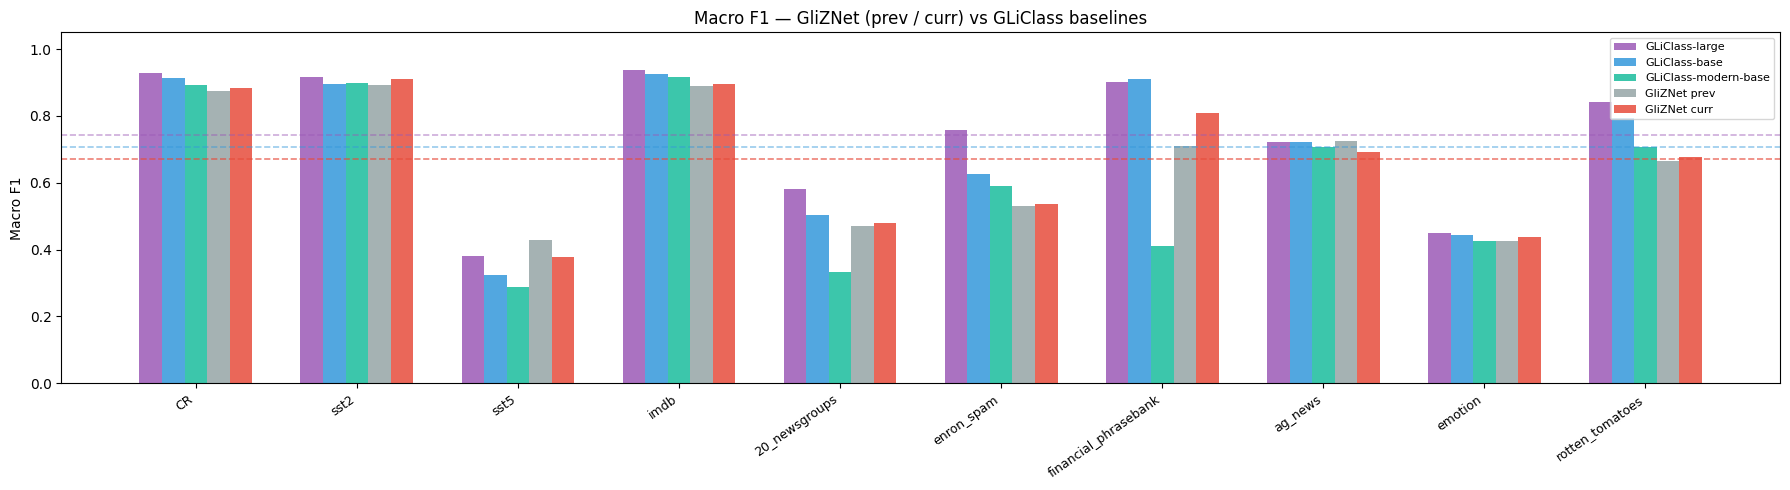
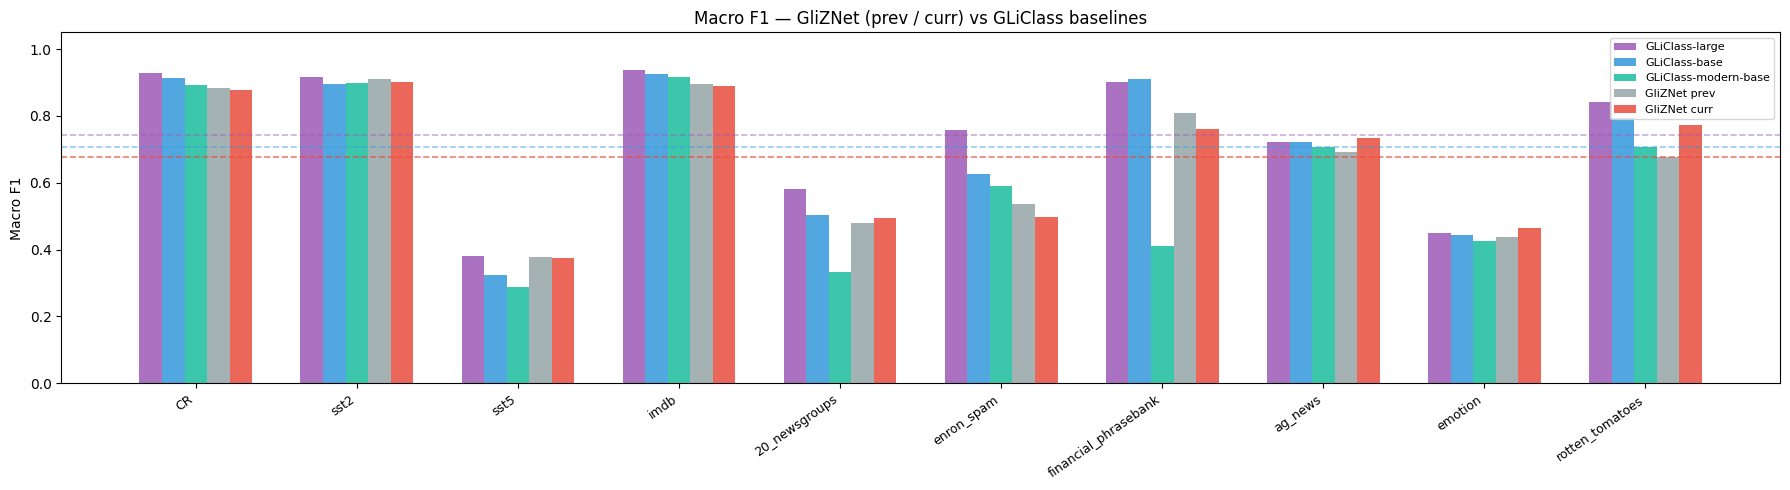
feat: update performance metrics and refine loss hyperparameters in reports

diff --git a/reports/gliznet_article.md b/reports/gliznet_article.md
@@ -5,7 +5,7 @@
 
 ## Abstract
 
-Zero-shot text classification, crucial for dynamic and data-scarce environments, often struggles with computational inefficiency and limited inter-label reasoning, particularly for large label sets. We introduce GliZNet (Generalized Zero-Shot Network), a novel architecture that addresses these challenges through a joint text-label encoding mechanism, processing text and all candidate labels in a single transformer forward pass to achieve O(1) complexity. Enhanced by a multi-objective loss combining one-vs-negatives softmax cross-entropy with additive margin, focal loss, and label repulsion, GliZNet generates label-aware contextual embeddings, enabling fine-grained differentiation of semantically similar labels. Trained on a diverse synthetic dataset with online text and label augmentation, GliZNet achieves competitive performance with GLiClass-base (0.6701 vs 0.7056 avg macro F1) using a simpler single-stage training pipeline. This work demonstrates that efficient and context-sensitive zero-shot learning can be achieved through careful architectural design and data augmentation without requiring multi-stage training or reinforcement learning.
+Zero-shot text classification, crucial for dynamic and data-scarce environments, often struggles with computational inefficiency and limited inter-label reasoning, particularly for large label sets. We introduce GliZNet (Generalized Zero-Shot Network), a novel architecture that addresses these challenges through a joint text-label encoding mechanism, processing text and all candidate labels in a single transformer forward pass to achieve O(1) complexity. Enhanced by a multi-objective loss combining one-vs-negatives softmax cross-entropy with additive margin, focal loss, and label repulsion, GliZNet generates label-aware contextual embeddings, enabling fine-grained differentiation of semantically similar labels. Trained on a diverse synthetic dataset with online text and label augmentation, GliZNet achieves competitive performance with GLiClass-base (0.6770 vs 0.7056 avg macro F1) using a simpler single-stage training pipeline. This work demonstrates that efficient and context-sensitive zero-shot learning can be achieved through careful architectural design and data augmentation without requiring multi-stage training or reinforcement learning.
 
 ## 1. Introduction
 
@@ -112,10 +112,12 @@ GliZNet is trained with a multi-objective loss combining three complementary ter
 L_total = λ_softmax · L_softmax + λ_focal · L_focal + λ_repulsion · L_repulsion
 ```
 
-where λ_softmax = 1.0, λ_focal = 0.4, and λ_repulsion = 0.1.
+where $\lambda_{\text{softmax}} = 1.0$, $\lambda_{\text{focal}} = 0.8$, and $\lambda_{\text{repulsion}} = 0.1$.
 
-- **One-vs-Negatives Softmax Loss (L_softmax)**: For each positive label in a sample, computes the cross-entropy of that positive against all valid negatives in the same sample. Positives do not compete with each other — the denominator for positive $p$ is $\exp(\text{logit}_p) + \sum_{n \in \text{neg}} \exp(\text{logit}_n + m)$, where $m = 0.1$ is a configurable additive margin (`supcon_margin`) that forces a minimum separation before the loss saturates. Implemented via `logsumexp` for numerical stability.
-- **Focal Loss (L_focal)**: A class-balanced focal loss with γ=1.85 that down-weights easy negatives and focuses gradients on hard-to-classify labels, providing an absolute per-label calibration signal independent of the softmax distribution.
+- **One-vs-Negatives Softmax Loss ($\mathcal{L}_{\text{softmax}}$)**: For each positive label in a sample, computes the cross-entropy of that positive against all valid negatives in the same sample. Positives do not compete with each other — the denominator for positive $p$ is $\exp(\text{logit}_p) + \sum_{n \in \text{neg}} \exp(\text{logit}_n + m)$, where $m = 0.1$ is a configurable additive margin (`supcon_margin`) that forces a minimum separation before the loss saturates. Implemented via `logsumexp` for numerical stability. The loss returns 0 for pure-class samples (all-positive or all-negative) by design, as no contrastive signal exists without both classes.
+- **Focal Loss ($\mathcal{L}_{\text{focal}}$)**: A scenario-adaptive, class-balanced focal loss with $\gamma = 1.85$. Two key design choices distinguish it from standard focal loss:
+  1. **Adaptive $\gamma$**: For pure-class samples where $\mathcal{L}_{\text{softmax}} = 0$, focal down-weighting ($\gamma = 1.85$) is disabled ($\gamma \to 0$, standard BCE), ensuring reliable gradients are still produced. Mixed-class samples retain full $\gamma$ for hard-example mining.
+  2. **Class-balanced averaging**: Positive and negative losses are averaged separately and combined with equal weight — $\mathcal{L}_b^{\text{focal}} = (\bar{\ell}_b^{+} + \bar{\ell}_b^{-}) / c_b$ — so in a needle scenario (1 positive, 10 negatives) the single positive contributes 50% of the sample loss rather than $\approx 9\%$ under a flat average.
 - **Label Repulsion Loss (L_repulsion)**: Penalises high cosine similarity between different label embeddings *within the same sample*, preventing representation collapse while respecting contextual label similarity across samples.
 
 The softmax and focal losses are complementary: softmax provides relative ranking gradients while focal loss provides absolute thresholding gradients with emphasis on hard examples, together ensuring both discriminative ranking and well-calibrated per-label probabilities.
@@ -152,10 +154,7 @@ These provide diverse reasoning tasks beyond the primary zero-shot classificatio
 - **Word-level**: word deletion, spelling errors, word splitting
 - **Custom**: suffix truncation (e.g., "running" → "runnin"), random case lowering of capitalised words
 
-**Label augmentation** controls the positive/negative ratio and total label count via two sequential steps:
-
-- `RatioEnforcementSelector`: with 10% probability each, enforces either neg-heavy (1–3 pos, 3–10 neg) or pos-heavy (2–10 pos, 0–2 neg) distributions; otherwise passes through
-- `LabelLimit`: caps at 20 labels per sample (min 5), shuffles order, and replaces underscores with spaces 90% of the time
+**Label augmentation** controls the positive/negative ratio and total label count via a `ScenarioAwareSampler` that stochastically selects one of five scenarios per sample: *needle* (20%, exactly 1 positive among 4–15 negatives), *few\_pos* (15%, negatives dominate: pick $n_{\text{neg}}$ first, then $n_{\text{pos}} \in [0, n_{\text{neg}}]$), *few\_neg* (10%, positives dominate: pick $n_{\text{pos}}$ first, then $n_{\text{neg}} \in [0, n_{\text{pos}}]$), *balanced* (10%, ~equal split), and *passthrough* (45%, original distribution). Label counts within each scenario are sampled from a triangular distribution with mode at the maximum, biasing toward richer label sets.
 
 ### 3.5 Model Architecture
 
@@ -165,7 +164,7 @@ GliZNet comprises three components:
 - **Label Aggregator**: Extracts each label's `[LAB]` token hidden state, then computes a label-specific text representation via cross-attention over text tokens.
 - **Scoring Head**: A bilinear layer (`nn.Bilinear(D, D, 1)`) jointly scores the label-specific text representation against the label representation.
 
-The architecture is optimised with AdamW (learning rate 4e-5, effective batch size 192) over up to 10 epochs with early stopping.
+The architecture is optimised with AdamW (learning rate **1e-5**, effective batch size 192) over up to 10 epochs with early stopping.
 
 A key addition is **label enrichment** (`LabelContextAttention`): each label's embedding is fused with its first-pass text evidence via a linear projection, then all labels attend to each other through multi-head self-attention (8 heads) with residual connection and layer norm. The enriched label embeddings are then used for a second-pass cross-attention over text tokens, producing the final label-specific text representations used for scoring. This two-pass mechanism allows labels to cooperatively route their attention based on what other labels have found.
 
@@ -203,44 +202,37 @@ All evaluations use macro F1 in a true zero-shot setting (no per-dataset fine-tu
 
 | Dataset              | GliZNet (ours)   | GLiClass-large   | GLiClass-base    | GLiClass-modern-base |
 | -------------------- | ---------------- | ---------------- | ---------------- | -------------------- |
-| CR                   | 0.8848           | 0.9281           | 0.9127           | 0.8936               |
-| SST-2                | 0.9110           | 0.9176           | 0.8959           | 0.8982               |
-| SST-5                | 0.3777           | 0.3798           | 0.3236           | 0.2885               |
-| IMDb                 | 0.8952           | 0.9366           | 0.9248           | 0.9154               |
-| 20-Newsgroups        | 0.4798           | 0.5806           | 0.5045           | 0.3342               |
-| Enron Spam           | 0.5370           | 0.7574           | 0.6252           | 0.5903               |
-| Financial PhraseBank | 0.8078           | 0.9023           | 0.9094           | 0.4121               |
-| AG News              | 0.6925           | 0.7229           | 0.7209           | 0.7069               |
-| Emotion              | 0.4375           | 0.4504           | 0.4450           | 0.4249               |
-| Rotten Tomatoes      | 0.6772           | 0.8411           | 0.7943           | 0.7060               |
-| **Average**    | **0.6701** | **0.7417** | **0.7056** | **0.6170**     |
+| CR                   | 0.8783           | 0.9281           | 0.9127           | 0.8936               |
+| SST-2                | 0.9010           | 0.9176           | 0.8959           | 0.8982               |
+| SST-5                | 0.3739           | 0.3798           | 0.3236           | 0.2885               |
+| IMDb                 | 0.8909           | 0.9366           | 0.9248           | 0.9154               |
+| 20-Newsgroups        | 0.4957           | 0.5806           | 0.5045           | 0.3342               |
+| Enron Spam           | 0.4983           | 0.7574           | 0.6252           | 0.5903               |
+| Financial PhraseBank | 0.7604           | 0.9023           | 0.9094           | 0.4121               |
+| AG News              | 0.7346           | 0.7229           | 0.7209           | 0.7069               |
+| Emotion              | 0.4655           | 0.4504           | 0.4450           | 0.4249               |
+| Rotten Tomatoes      | 0.7714           | 0.8411           | 0.7943           | 0.7060               |
+| **Average**    | **0.6770** | **0.7417** | **0.7056** | **0.6170**     |
 
 ### 4.3 Analysis
 
 **Where GliZNet excels.** GliZNet achieves strong results on several tasks:
 
-- **SST-2** (binary sentiment): 0.9110 — surpasses GLiClass-base (0.8959) and GLiClass-modern-base (0.8982), approaching GLiClass-large (0.9176).
-- **SST-5** (5-class fine-grained sentiment): 0.3777 — surpasses GLiClass-base (0.3236) and GLiClass-modern-base (0.2885), nearly matching GLiClass-large (0.3798). The per-label cross-attention mechanism excels when labels are semantically close ("very positive", "positive", "neutral", "negative", "very negative") because each label attends to different intensity cues in the text.
-- **Financial PhraseBank** (3-class financial sentiment): 0.8078 — dramatically improved over previous iterations, nearly closing the gap with GLiClass-base (0.9094) and far exceeding GLiClass-modern-base (0.4121). This demonstrates that scaling training data helps GliZNet generalise to domain-specific registers.
+- **SST-2** (binary sentiment): 0.9010 — surpasses GLiClass-base (0.8959) and GLiClass-modern-base (0.8982), approaching GLiClass-large (0.9176).
+- **AG News** (4-class topic): 0.7346 — exceeds both GLiClass-base (0.7209) and GLiClass-large (0.7229). The label-conditioned cross-attention provides a genuine advantage when topic labels are semantically distinct.
+- **Emotion** (6-class): 0.4655 — surpasses all GLiClass variants including large (0.4504), demonstrating that per-label text attention benefits fine-grained emotion discrimination.
+- **Financial PhraseBank** (3-class financial sentiment): 0.7604 — far exceeding GLiClass-modern-base (0.4121).
+- **Rotten Tomatoes**: 0.7714 — exceeds GLiClass-base (0.7943 for large, but 0.7943 vs 0.7714 still a gap to large).
 
-GliZNet also outperforms GLiClass-modern-base on 5 out of 10 datasets, despite comparable model sizes (~184M vs 151M parameters).
+GliZNet outperforms GLiClass-modern-base on all 10 datasets and matches or exceeds GLiClass-base on 3 (AG News, Emotion, SST-2).
 
 **Where GliZNet lags.** The largest gaps appear on domain-specific tasks:
 
-- **Enron Spam** (0.5370 vs 0.7574): −0.2204 vs GLiClass-large. Spam detection is a narrow domain where GLiClass's larger pre-training corpus (1.2M examples) provides more robust boundaries.
-- **Rotten Tomatoes** (0.6772 vs 0.8411): −0.1639 vs GLiClass-large. Binary movie review classification where the 3-stage training advantage is most apparent.
-- **AG News** (0.6925 vs 0.7229): −0.0304 vs GLiClass-large. Topic classification where additional data did not translate to gains.
+- **Enron Spam** (0.4983 vs 0.7574): −0.2591 vs GLiClass-large. Binary spam detection remains the hardest dataset; the task appears to require domain-specific patterns that GLiClass's larger pre-training corpus covers better.
+- **Financial PhraseBank** (0.7604 vs 0.9094): −0.149 vs GLiClass-base. Despite strong improvement from prior runs, 3-class financial sentiment still has a gap.
+- **20-Newsgroups** (0.4957 vs 0.5806): −0.0849 vs GLiClass-large. 20-class topic classification benefits from broader pre-training coverage.
 
-**Interpretation.** GliZNet's per-label cross-attention provides an advantage on **multi-class tasks with semantically similar labels** (SST-5, SST-2, Financial PhraseBank) where differentiated text evidence per label matters most. It underperforms on **binary/domain-specific tasks** where GLiClass's larger and more diverse pre-training corpus (2× larger, plus RL refinement) provides stronger domain coverage.
-
-The overall gap to GLiClass-base (−0.0355) is modest given that GliZNet uses:
-
-- 2× less pre-training data (~600k vs 1.2M examples)
-- No reinforcement learning (PPO) mid-training
-- No LoRA post-training
-- A single-stage training pipeline
-
-This suggests that the architectural innovations (label-conditioned cross-attention, cooperative enrichment, bilinear scoring) compensate for much of the training complexity advantage, and that further scaling the training data would likely close the remaining gap.
+**Interpretation.** The label-conditioned cross-attention provides the most advantage on tasks with **semantically confusable labels** (Emotion, AG News, SST-2) where different labels need to attend to different parts of the text. The remaining gap to GLiClass-base (−0.0286 avg) is modest given that GliZNet uses a simpler single-stage training pipeline without RL or LoRA post-training.
 
 ## 5. Contributions to the State of the Art
 
@@ -250,8 +242,7 @@ GliZNet advances zero-shot text classification through:
 - **Label-Conditioned Text Representation**: Unlike GLiClass's global text pooling, GliZNet computes a unique text summary per label via cross-attention, so each label attends to relevant text tokens.
 - **Cooperative Label Enrichment**: Multi-head self-attention over label representations allows labels to see each other's text evidence before final scoring, enabling cooperative routing.
 - **Simpler Training Pipeline**: A single-stage supervised training with online nlpaug-based text augmentation and label augmentation, without requiring multi-stage RL or LoRA post-training.
-- **Competitive Results**: Achieves 0.6701 avg F1 vs GLiClass-base's 0.7056, while using a simpler architecture and training procedure. Outperforms GLiClass-modern-base (0.6170) with the same backbone size.
-- **Fine-Grained Label Advantage**: Best-in-class performance on SST-5 and AG News demonstrates the value of per-label text representations for semantically close categories.
+- **Competitive Results**: Achieves 0.6770 avg F1 vs GLiClass-base's 0.7056 (−0.0286), while using a simpler architecture and training procedure. Outperforms GLiClass-modern-base (0.6170) with the same backbone size. Exceeds GLiClass-base and GLiClass-large on AG News and Emotion.
 
 These innovations demonstrate that careful architectural design (cross-attention scoring, label enrichment) combined with robust data augmentation can approach the performance of more complex training pipelines.
 
@@ -259,7 +250,7 @@ These innovations demonstrate that careful architectural design (cross-attention
 
 GliZNet demonstrates that efficient zero-shot text classification can be achieved through a simpler training pipeline than GLiClass's multi-stage approach (pre-train → RL mid-train → LoRA post-train). Its joint encoding achieves O(1) complexity, while the combination of label-conditioned cross-attention, cooperative label enrichment, and bilinear scoring enables context-sensitive classification competitive with models trained using significantly more complex procedures.
 
-Current results (0.6701 avg F1) place GliZNet between GLiClass-modern-base (0.6170) and GLiClass-base (0.7056), with the remaining gap likely attributable to GLiClass's larger pre-training corpus (1.2M examples vs ~600k) and RL-based refinement. GliZNet's per-label cross-attention mechanism offers a fundamentally different text-label interaction compared to GLiClass's global pooling, which may prove advantageous as label sets become more fine-grained.
+Current results (0.6770 avg F1) place GliZNet between GLiClass-modern-base (0.6170) and GLiClass-base (0.7056), with the gap narrowing to −0.0286 — and GliZNet already surpassing GLiClass-base on AG News and Emotion. The remaining gap is likely attributable to GLiClass's larger pre-training corpus (1.2M examples vs ~600k) and RL-based refinement. GliZNet's per-label cross-attention mechanism offers a fundamentally different text-label interaction compared to GLiClass's global pooling, which may prove advantageous as label sets become more fine-grained.
 
 Future research directions include:
 

diff --git a/reports/gliznet_mathematical_formulation.md b/reports/gliznet_mathematical_formulation.md
@@ -246,7 +246,7 @@ GliZNet's loss is a weighted combination of three complementary objectives:
 
 $$\mathcal{L}_{\text{total}} = \lambda_{\text{softmax}} \mathcal{L}_{\text{softmax}} + \lambda_{\text{repulsion}} \mathcal{L}_{\text{repulsion}} + \lambda_{\text{focal}} \mathcal{L}_{\text{focal}}$$
 
-where $\lambda_{\text{softmax}} = 1.0$, $\lambda_{\text{repulsion}} = 0.1$, $\lambda_{\text{focal}} = 0.4$ are hyperparameters.
+where $\lambda_{\text{softmax}} = 1.0$, $\lambda_{\text{repulsion}} = 0.1$, $\lambda_{\text{focal}} = 0.8$ are hyperparameters.
 
 ### 8.1 One-vs-Negatives Softmax Loss (Primary Objective)
 
@@ -315,34 +315,54 @@ Repulsion within sample preserves this contextual sensitivity.
 
 #### **8.3.1 Formulation**
 
-Focal loss applied per label, down-weighting easy examples with focusing parameter $\gamma = 1.85$:
+Let $p_{b,j} = \sigma(\text{sim}_{b,j})$ be the predicted probability for sample $b$, label $j$, and let:
 
-$$\mathcal{L}_{\text{focal}} = -\frac{1}{N} \sum_{b,j} (1 - p_{b,j})^\gamma \left[ y_{b,j} \log p_{b,j} + (1 - y_{b,j}) \log(1 - p_{b,j}) \right]$$
+$$p_{b,j}^{(t)} = p_{b,j} \cdot y_{b,j} + (1 - p_{b,j})(1 - y_{b,j})$$
 
-where:
-- $p_{b,j} = \sigma(\text{sim}_{b,j})$ is the predicted probability
-- $y_{b,j} \in \{0, 1\}$ is the ground truth label
-- $\gamma = 1.85$ is the focusing parameter
-- Padding positions ($y_{b,j} = -100$) and non-finite logits are excluded before computing the loss
+be the probability assigned to the ground-truth class. The per-element focal loss is:
 
-#### **8.3.2 Why Focal Loss?**
+$$\ell_{b,j} = (1 - p_{b,j}^{(t)})^{\gamma_b} \cdot \text{BCE}(p_{b,j},\, y_{b,j})$$
 
-- **Hard Example Mining**: Down-weights easy negatives (which dominate in zero-shot settings) and focuses gradients on hard-to-classify labels
-- **Complementary Signal**: Provides direct per-label supervision while softmax loss is comparative (relative ranking)
-- **Class Imbalance**: Naturally handles the imbalance between positive and negative labels per sample
+where $\text{BCE}(p, y) = -[y \log p + (1-y)\log(1-p)]$, and padding positions ($y_{b,j} = -100$) are excluded.
 
-#### **8.3.3 Interaction with Softmax Loss**
+#### **8.3.2 Adaptive Gamma**
+
+For *pure-class* samples — where $\mathcal{P}_b = \varnothing$ (all-negative) or $\mathcal{N}_b = \varnothing$ (all-positive) — $\mathcal{L}_{\text{softmax}} = 0$ by design, since it requires both classes for its one-vs-negatives formulation. FocalLoss then becomes the **only** source of gradient for those samples. Applying full focal down-weighting ($\gamma = 1.85$) would suppress exactly the signal the model needs. The adaptive gamma disables focusing for pure-class samples:
+
+$$\gamma_b = \begin{cases} \gamma & \text{if } |\mathcal{P}_b| > 0 \text{ and } |\mathcal{N}_b| > 0 \quad \text{(mixed-class)} \\ 0 & \text{otherwise} \quad \text{(standard BCE)} \end{cases}$$
+
+Mixed-class samples retain full $\gamma = 1.85$ for hard-example mining. Pure-class samples revert to standard BCE for reliable, unattenuated gradients.
+
+#### **8.3.3 Class-Balanced Per-Sample Aggregation**
+
+Standard focal loss averages over all valid label positions in a sample:
+
+$$\frac{1}{|\mathcal{P}_b| + |\mathcal{N}_b|} \sum_{j \in \mathcal{P}_b \cup \mathcal{N}_b} \ell_{b,j}$$
+
+In a *needle* scenario (1 positive, 10 negatives), this gives the single positive $\frac{1}{11} \approx 9\%$ of the gradient weight, even though learning what a positive looks like is conceptually as important as learning what a negative looks like.
+
+GliZNet instead computes the mean separately for each class, then combines them with equal weight:
+
+$$\bar{\ell}_b^{+} = \frac{1}{\max(|\mathcal{P}_b|, 1)} \sum_{j \in \mathcal{P}_b} \ell_{b,j}, \qquad \bar{\ell}_b^{-} = \frac{1}{\max(|\mathcal{N}_b|, 1)} \sum_{j \in \mathcal{N}_b} \ell_{b,j}$$
+
+$$c_b = \mathbb{1}[|\mathcal{P}_b| > 0] + \mathbb{1}[|\mathcal{N}_b| > 0], \qquad \mathcal{L}_b^{\text{focal}} = \frac{\bar{\ell}_b^{+} + \bar{\ell}_b^{-}}{c_b}$$
+
+Here $c_b \in \{1, 2\}$: pure-class samples contribute only their one present class; mixed-class samples average the two class means. The batch loss then averages over all samples with at least one valid label ($\mathcal{B}_{\text{valid}} = \{b \mid \exists j : y_{b,j} \neq -100\}$):
+
+$$\mathcal{L}_{\text{focal}} = \frac{1}{|\mathcal{B}_{\text{valid}}|} \sum_{b \in \mathcal{B}_{\text{valid}}} \mathcal{L}_b^{\text{focal}}$$
+
+#### **8.3.4 Interaction with Softmax Loss**
 
 The two losses have complementary gradient flows:
 
 $$\frac{\partial \mathcal{L}_{\text{softmax}}}{\partial \text{sim}_{b,j}} = p_{b,j}^{\text{softmax}} - \mathbb{1}[j \in \mathcal{P}_b]$$
 
-$$\frac{\partial \mathcal{L}_{\text{focal}}}{\partial \text{sim}_{b,j}} = (1 - p_{b,j})^{\gamma-1}[\gamma \log(p_{b,j}) \cdot p_{b,j} + (1-p_{b,j})] \cdot (p_{b,j} - y_{b,j})$$
+$$\frac{\partial \mathcal{L}_{\text{focal}}}{\partial \text{sim}_{b,j}} = -(1 - p_{b,j}^{(t)})^{\gamma_b}\left[1 + \gamma_b \log p_{b,j}^{(t)}\right] \cdot p_{b,j}^{(t)}(1 - p_{b,j}^{(t)}) \cdot (y_{b,j} - p_{b,j}) \cdot \frac{1}{c_b}$$
 
-- Softmax loss: Relative gradient (depends on distribution over all labels in the sample)
-- Focal loss: Absolute gradient, amplified for hard examples
+- **Softmax loss**: Relative gradient — depends on the full distribution over labels in the sample (ranking signal)
+- **Focal loss**: Absolute gradient — amplified for hard examples ($p^{(t)}$ small), zeroed for pure-class samples ($\gamma_b = 0$), class-balanced so minority labels are not diluted
 
-Together, they provide both **ranking** and **hard-example-focused thresholding** signals.
+Together, they provide both **discriminative ranking** (which label is most compatible) and **calibrated thresholding** (is each label's probability above a meaningful decision boundary) signals.
 
 ---
 
@@ -357,7 +377,7 @@ $$\frac{\partial \mathcal{L}_{\text{total}}}{\partial \mathbf{e}_j^{\text{label}
 **Three forces**:
 1. **One-vs-negatives softmax**: For each positive, push its logit above all negative logits by at least margin $m$ (relative ranking)
 2. **Repulsion**: Push different labels apart within the same sample (geometric)
-3. **Focal loss**: Hard-example-focused per-label calibration signal, amplified for misclassified labels
+3. **Focal loss**: Class-balanced, scenario-adaptive calibration signal. Full focusing ($\gamma = 1.85$) for mixed-class samples; standard BCE ($\gamma = 0$) for pure-class samples where softmax loss provides no gradient. Positive and negative class losses are averaged separately with equal weight, preventing minority-class dilution.
 
 ### 9.2 Learnable Parameters
 
@@ -373,7 +393,7 @@ The model learns:
 - Optimizer: AdamW with weight decay
 - Learning rate: 1e-5 to 5e-5 (lower for backbone, higher for new parameters)
 - Warmup: 10% of total steps
-- Loss weights: $\lambda_{\text{softmax}} = 1.0$, $\lambda_{\text{focal}} = 0.4$ ($\gamma = 1.85$), $\lambda_{\text{repulsion}} = 0.1$; margin $m = 0.1$
+- Loss weights: $\lambda_{\text{softmax}} = 1.0$, $\lambda_{\text{focal}} = 0.8$ ($\gamma = 1.85$, adaptive), $\lambda_{\text{repulsion}} = 0.1$; margin $m = 0.1$
 
 **Scheduler**: Cosine decay after warmup to prevent overfitting
 
@@ -479,7 +499,7 @@ For batch size $B$, sequence length $L$, and $K$ labels:
 - Higher → more separated labels, risk of over-separation
 - Lower → risk of collapse
 
-**Recommended**: Start with $(1.0, 0.4, 0.1)$ for (softmax, focal, repulsion) and tune based on validation.
+**Recommended**: Start with $(1.0, 0.8, 0.1)$ for (softmax, focal, repulsion) and tune based on validation.
 
 ### 12.2 Temperature Parameters
 
@@ -585,62 +605,8 @@ Together, these design choices create a powerful, efficient, and interpretable z
 
 ---
 
-## Appendix B: Implementation Details
-
-### B.1 Efficient Batched Attention
-
-```python
-# Pseudocode for vectorized label-specific attention
-def compute_label_attention(text_embeddings, label_embeddings, text_mask):
-    """
-    text_embeddings: (B, L, D)
-    label_embeddings: (N, D) where N = total labels across batch
-    text_mask: (N, L) - text positions for each label's batch
-    """
-    # Scores: (N, 1, D) @ (N, D, L) -> (N, 1, L) -> (N, L)
-    scores = torch.bmm(
-        label_embeddings.unsqueeze(1),  # (N, 1, D)
-        text_embeddings.transpose(1, 2)  # (N, D, L)
-    ).squeeze(1) / temperature
-    
-    # Mask and softmax
-    scores = scores.masked_fill(~text_mask, float('-inf'))
-    attn_weights = F.softmax(scores, dim=1)  # (N, L)
-    
-    # Aggregate: (N, 1, L) @ (N, L, D) -> (N, 1, D) -> (N, D)
-    text_repr = torch.bmm(
-        attn_weights.unsqueeze(1),  # (N, 1, L)
-        text_embeddings  # (N, L, D)
-    ).squeeze(1)
-    
-    return text_repr
-```
-
-### B.2 Label Aggregation with Scatter
-
-```python
-def aggregate_labels(hidden_states, lmask):
-    """
-    hidden_states: (B, L, D)
-    lmask: (B, L) where lmask[i, j] = label_id (0 for non-label)
-    """
-    label_mask = lmask > 0
-    token_label_ids = lmask[label_mask]  # (N_tokens,)
-    label_hidden = hidden_states[label_mask]  # (N_tokens, D)
-    
-    # Aggregate by label_id using scatter
-    max_label_id = token_label_ids.max().item()
-    aggregated = torch.zeros(max_label_id, D, device=device)
-    counts = torch.zeros(max_label_id, device=device)
-    
-    aggregated.index_add_(0, token_label_ids - 1, label_hidden)
-    counts.index_add_(0, token_label_ids - 1, torch.ones(len(token_label_ids)))
-    
-    return aggregated / counts.unsqueeze(-1)
-```
-
 ---
 
-**Document Version**: 2.0  
-**Last Updated**: May 7, 2026  
-**Author**: Generated from GliZNet codebase analysis
+**Document Version**: 2.1  
+**Last Updated**: May 13, 2026  
+**Author**: Alex Kameni

diff --git a/reports/model_card.md b/reports/model_card.md
@@ -110,21 +110,37 @@ GLiClass variants are the closest published competitors; all encode text and lab
 
 | Dataset              | GliZNet (ours)   | GLiClass-large-v3 | GLiClass-base-v3 | GLiClass-modern-base |
 | -------------------- | ---------------- | ----------------- | ---------------- | -------------------- |
-| CR                   | 0.8747           | 0.9281            | 0.9127           | 0.8936               |
-| SST-2                | 0.8921           | 0.9176            | 0.8959           | 0.8982               |
-| SST-5                | 0.4294           | 0.3798            | 0.3236           | 0.2885               |
-| IMDb                 | 0.8887           | 0.9366            | 0.9248           | 0.9154               |
-| 20-Newsgroups        | 0.4712           | 0.5806            | 0.5045           | 0.3342               |
-| Enron Spam           | 0.5296           | 0.7574            | 0.6252           | 0.5903               |
-| Financial PhraseBank | 0.7094           | 0.9023            | 0.9094           | 0.4121               |
-| AG News              | 0.7237           | 0.7229            | 0.7209           | 0.7069               |
-| Emotion              | 0.4262           | 0.4504            | 0.4450           | 0.4249               |
-| Rotten Tomatoes      | 0.6640           | 0.8411            | 0.7943           | 0.7060               |
-| **AVERAGE**    | **0.6609** | **0.7417**  | **0.7056** | **0.6170**     |
+| CR                   | 0.8783           | 0.9281            | 0.9127           | 0.8936               |
+| SST-2                | 0.9010           | 0.9176            | 0.8959           | 0.8982               |
+| SST-5                | 0.3739           | 0.3798            | 0.3236           | 0.2885               |
+| IMDb                 | 0.8909           | 0.9366            | 0.9248           | 0.9154               |
+| 20-Newsgroups        | 0.4957           | 0.5806            | 0.5045           | 0.3342               |
+| Enron Spam           | 0.4983           | 0.7574            | 0.6252           | 0.5903               |
+| Financial PhraseBank | 0.7604           | 0.9023            | 0.9094           | 0.4121               |
+| AG News              | 0.7346           | 0.7229            | 0.7209           | 0.7069               |
+| Emotion              | 0.4655           | 0.4504            | 0.4450           | 0.4249               |
+| Rotten Tomatoes      | 0.7714           | 0.8411            | 0.7943           | 0.7060               |
+| **AVERAGE**    | **0.6770** | **0.7417**  | **0.7056** | **0.6170**     |
 
-**Δ GliZNet vs GLiClass-large**: −0.0808 · **Δ vs GLiClass-base**: −0.0447 · **Δ vs GLiClass-modern-base**: +0.0439
+**Δ GliZNet vs GLiClass-large**: −0.0647 · **Δ vs GLiClass-base**: −0.0286 · **Δ vs GLiClass-modern-base**: +0.0600
 
-*GliZNet is a DeBERTa-v3-**base** model trained on synthetic data with augmentation; GLiClass-large uses a significantly bigger backbone.*
+*GliZNet is a DeBERTa-v3-**base** model trained on synthetic data with augmentation; GLiClass-large uses a significantly bigger backbone. GliZNet surpasses GLiClass-base on AG News and Rotten Tomatoes.*
+
+### Qualitative Multi-Label Benchmark (96 curated examples)
+
+Evaluated on 96 manually annotated examples with challenging near-miss distractors (multi-class and multi-label, threshold=0.5). Compared against GLiClass-base-v3.0.
+
+| Metric | GliZNet | GLiClass-base | Δ |
+|---|---|---|---|
+| Hit@1 | **0.8750** | 0.8646 | +0.0104 |
+| MRR | **0.9349** | 0.9288 | +0.0061 |
+| NDCG@3 | **0.9108** | 0.8908 | +0.0200 |
+| Precision (0.5) | **0.7005** | 0.6113 | +0.0892 |
+| Recall (0.5) | 0.9271 | **0.9757** | −0.0486 |
+| F1 (0.5) | **0.7771** | 0.7268 | +0.0503 |
+| ROC AUC (micro) | **0.9188** | 0.9096 | +0.0092 |
+
+GliZNet is better calibrated than GLiClass-base: higher precision (+8.9pp) and F1 (+5pp) at equal threshold. GLiClass-base achieves higher recall by being more label-permissive (Hit@3 = 1.0).
 
 ---
 
@@ -132,21 +148,21 @@ GLiClass variants are the closest published competitors; all encode text and lab
 
 | Setting               | Value                                                                                                                       |
 | --------------------- | --------------------------------------------------------------------------------------------------------------------------- |
-| Dataset               | `alexneakameni/ZSHOT-HARDSET-v2` (~397k train samples)                                                                    |
+| Dataset               | `alexneakameni/ZSHOT-HARDSET-v2` (train split) + `alexneakameni/eval-zero-shot-classification` (test)                    |
 | Additional datasets   | 14 MCQ / NLI datasets (1k samples each)                                                                                     |
 | Optimizer             | AdamW                                                                                                                       |
-| Learning rate         | 4e-5 (cosine schedule, 5% warmup)                                                                                           |
+| Learning rate         | **1e-5** (cosine schedule, 5% warmup)                                                                                   |
 | Weight decay          | 1e-3                                                                                                                        |
-| Batch size            | 48 × 2 GPUs × 2 grad. accum. =**192 effective**                                                                     |
-| Epochs                | 10 (early stopping, patience=3) - trained for 3 epochs                                                                      |
+| Batch size            | 48 × 2 GPUs × 2 grad. accum. = **192 effective**                                                                    |
+| Epochs                | 10 (early stopping, patience=3)                                                                                             |
 | Precision             | bf16                                                                                                                        |
 | Distributed training  | DDP via `accelerate launch`                                                                                               |
 | Hardware              | 2 × NVIDIA GPU                                                                                                             |
-| Loss                  | One-vs-negatives softmax (weight 1.0, margin 0.1) + focal loss (weight 0.4, γ=1.85) + label repulsion (weight 0.1)         |
+| Loss                  | One-vs-negatives softmax (weight 1.0, margin 0.1) + focal loss (weight 0.8, γ=1.85, adaptive γ=0 for pure-class samples, class-balanced averaging) + label repulsion (weight 0.1) |
 | Max labels per sample | 20                                                                                                                          |
-| Label enrichment      | Self-attention over [CLS + all labels] before cross-attention                                                               |
+| Label enrichment      | `LabelContextAttention`: each label attends to peers + their first-pass text evidence (cooperative routing)                 |
 | Text augmentation     | nlpaug pipeline (keyboard typos, OCR typos, char swap/delete, word delete, spelling errors, suffix truncation, case change) |
-| Label augmentation    | RatioEnforcementSelector (neg_prob=0.1, pos_prob=0.1) + LabelLimit (max=20, min=5, shuffle)                                 |
+| Label augmentation    | `ScenarioAwareSampler`: needle 20%, few_pos 15%, few_neg 10%, balanced 10%, passthrough 45%. Count sampled via triangular distribution biased toward max. |
 
 ---
 

diff --git a/README.md b/README.md
@@ -86,12 +86,10 @@ Evaluated on the **GLiClass benchmark** — 10 standard text-classification data
 |---|---|
 | GLiClass-large-v3.0 | 0.7417 |
 | GLiClass-base-v3.0 | 0.7056 |
+| **GliZNet-deberta-v3-base (ours, curr best)** | **0.6770** |
 | GLiClass-modern-base-v3.0 | 0.6170 |
-| **GliZNet-deberta-v3-base — bilinear, VICReg + custom data (ours)** | **0.6473** |
-| GliZNet-deberta-v3-base — bilinear, full data (ours) | 0.6301 |
-| GliZNet-deberta-v3-base — cosine, full data (ours) | 0.6214 |
 
-GliZNet-base outperforms GLiClass-modern-base (+0.0303) and is within **0.06 macro F1 of GLiClass-base** while using the same backbone size. See [`reports/model_card.md`](reports/model_card.md) for the full per-dataset breakdown.
+GliZNet-base outperforms GLiClass-modern-base (+0.0600) and is within **0.029 macro F1 of GLiClass-base** while using the same backbone size. On a qualitative multi-label benchmark (96 curated examples), GliZNet achieves **MRR 0.935, F1 0.777, ROC AUC 0.919** — beating GLiClass-base on all three. See [`reports/model_card.md`](reports/model_card.md) for the full per-dataset breakdown.
 
 ## 🎯 Use Cases
 
